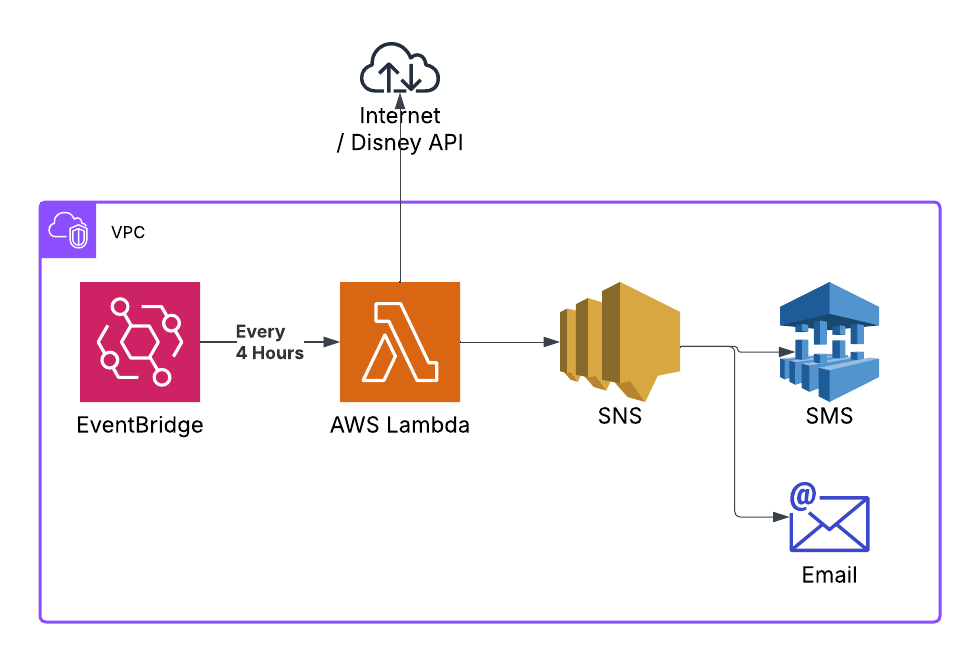
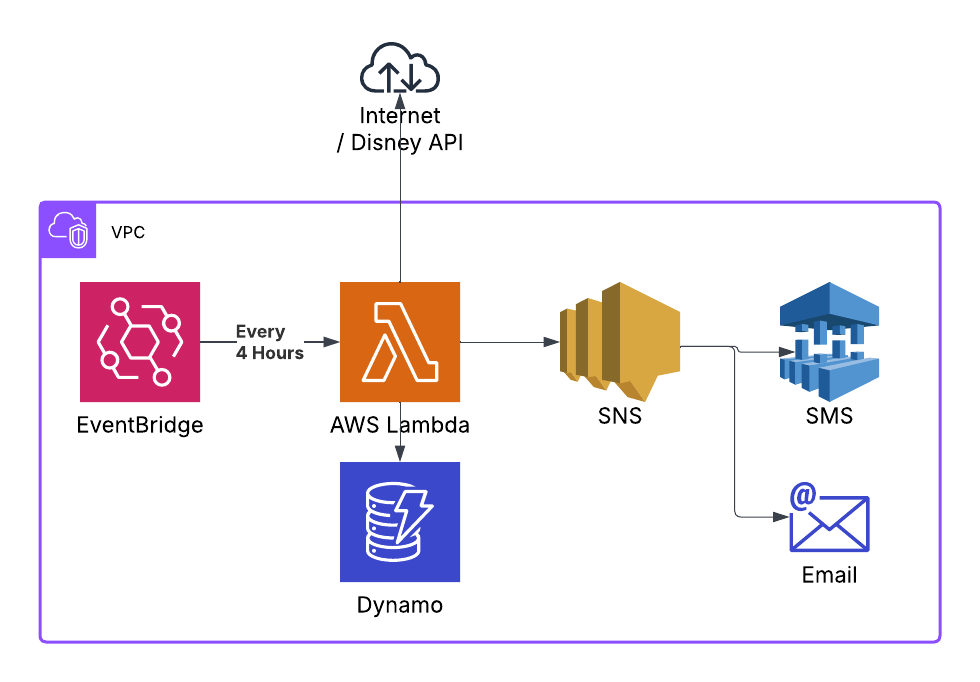
Updated README

diff --git a/README.md b/README.md
@@ -4,6 +4,15 @@ Application to notify users when Disney hotels become available below desired pr
 
 ![Architecture Diagram](./docs/images/disney-scrapper-architecture.png)
 
+## Methodology
+
+1. Event Bridge invokes the scrapper lambda every four hours
+2. The Lambda pulls resort prices from the Disney API
+3. Resorts are filtered based on the maximum price a client is willing to pay
+4. Prices from the last check in DynamoDB are compared and filtered out if the price has not dropped
+5. Matching resorts are sent to the SNS topic
+6. The SNS topic sends messages to targets like Email and SMS for mobile notifications
+
 ## Infrastructure
 
 Setup infrastructure as follows:
@@ -19,7 +28,7 @@ The event bridge rule may be configured to input JSON to the lambda given the fo
 - `check_out_date`: Hotel Check-out date (YYYY-mm-dd)
 - `adult_count`: Number of adults $a\in\mathbb{N}$
 - `child_count`: Number of children $c\in\mathbb{N}$
-- `max_price`: Maximum price allowed for reservation $\{ m\in\mathbb{N} \mid a>0 \}$
+- `max_price`: Maximum price allowed for reservation $\{ m\in\mathbb{R} \mid a>0 \}$
 - `exclude_resorts`: Resorts to exclude by name as a substring of the restort
 
 ```json
@@ -37,7 +46,7 @@ The event bridge rule may be configured to input JSON to the lambda given the fo
 
 ## Run
 
-Run the application using the local `lambda_handler` python file.
+You can run the application locally using the `lambda_handler`:
 
 ```shell
 python disney_scapper/lambda_handler.py
@@ -54,6 +63,8 @@ poetry build-lambda
 
 ## Dependencies
 
+Ensure you have the following dependencies installed:
+
 - [Poetry](https://python-poetry.org/)
 - [Poetry Lambda-Build](https://github.com/micmurawski/poetry-plugin-lambda-build)
 
@@ -61,3 +72,7 @@ poetry build-lambda
     poetry self add poetry-plugin-lambda-build
     poetry self add poetry-plugin-export
     ```
+
+License
+
+This project is licensed under MIT.
